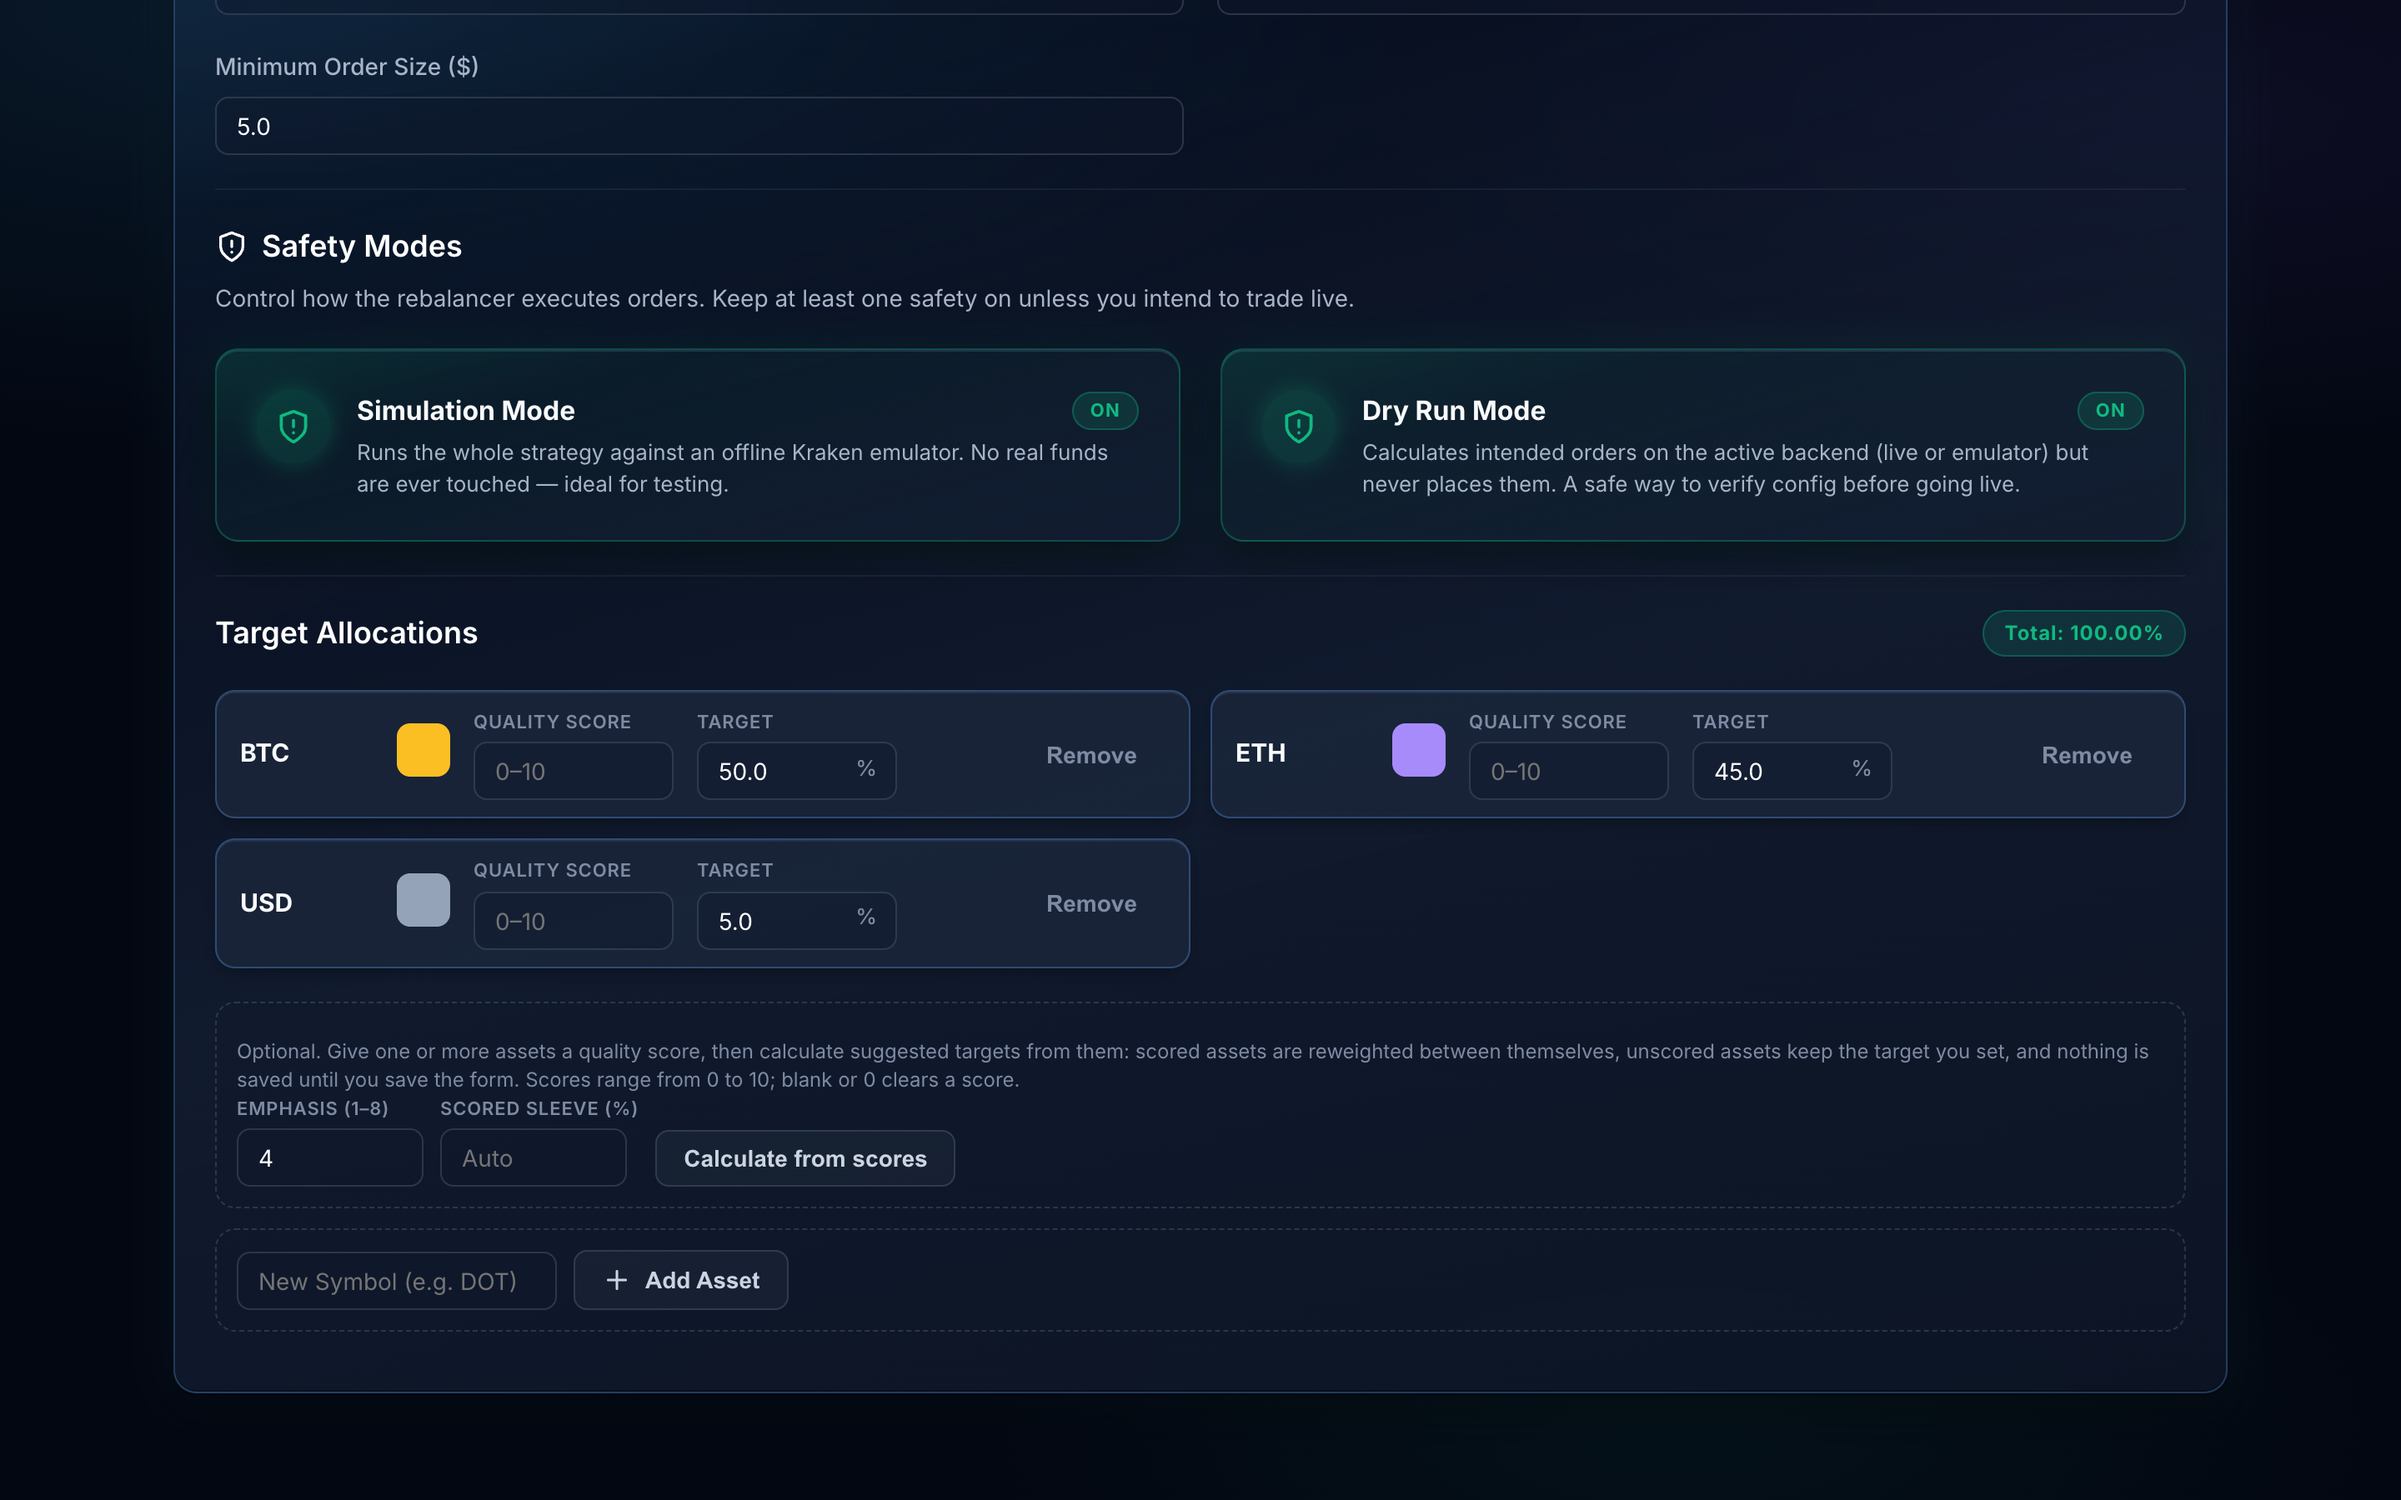
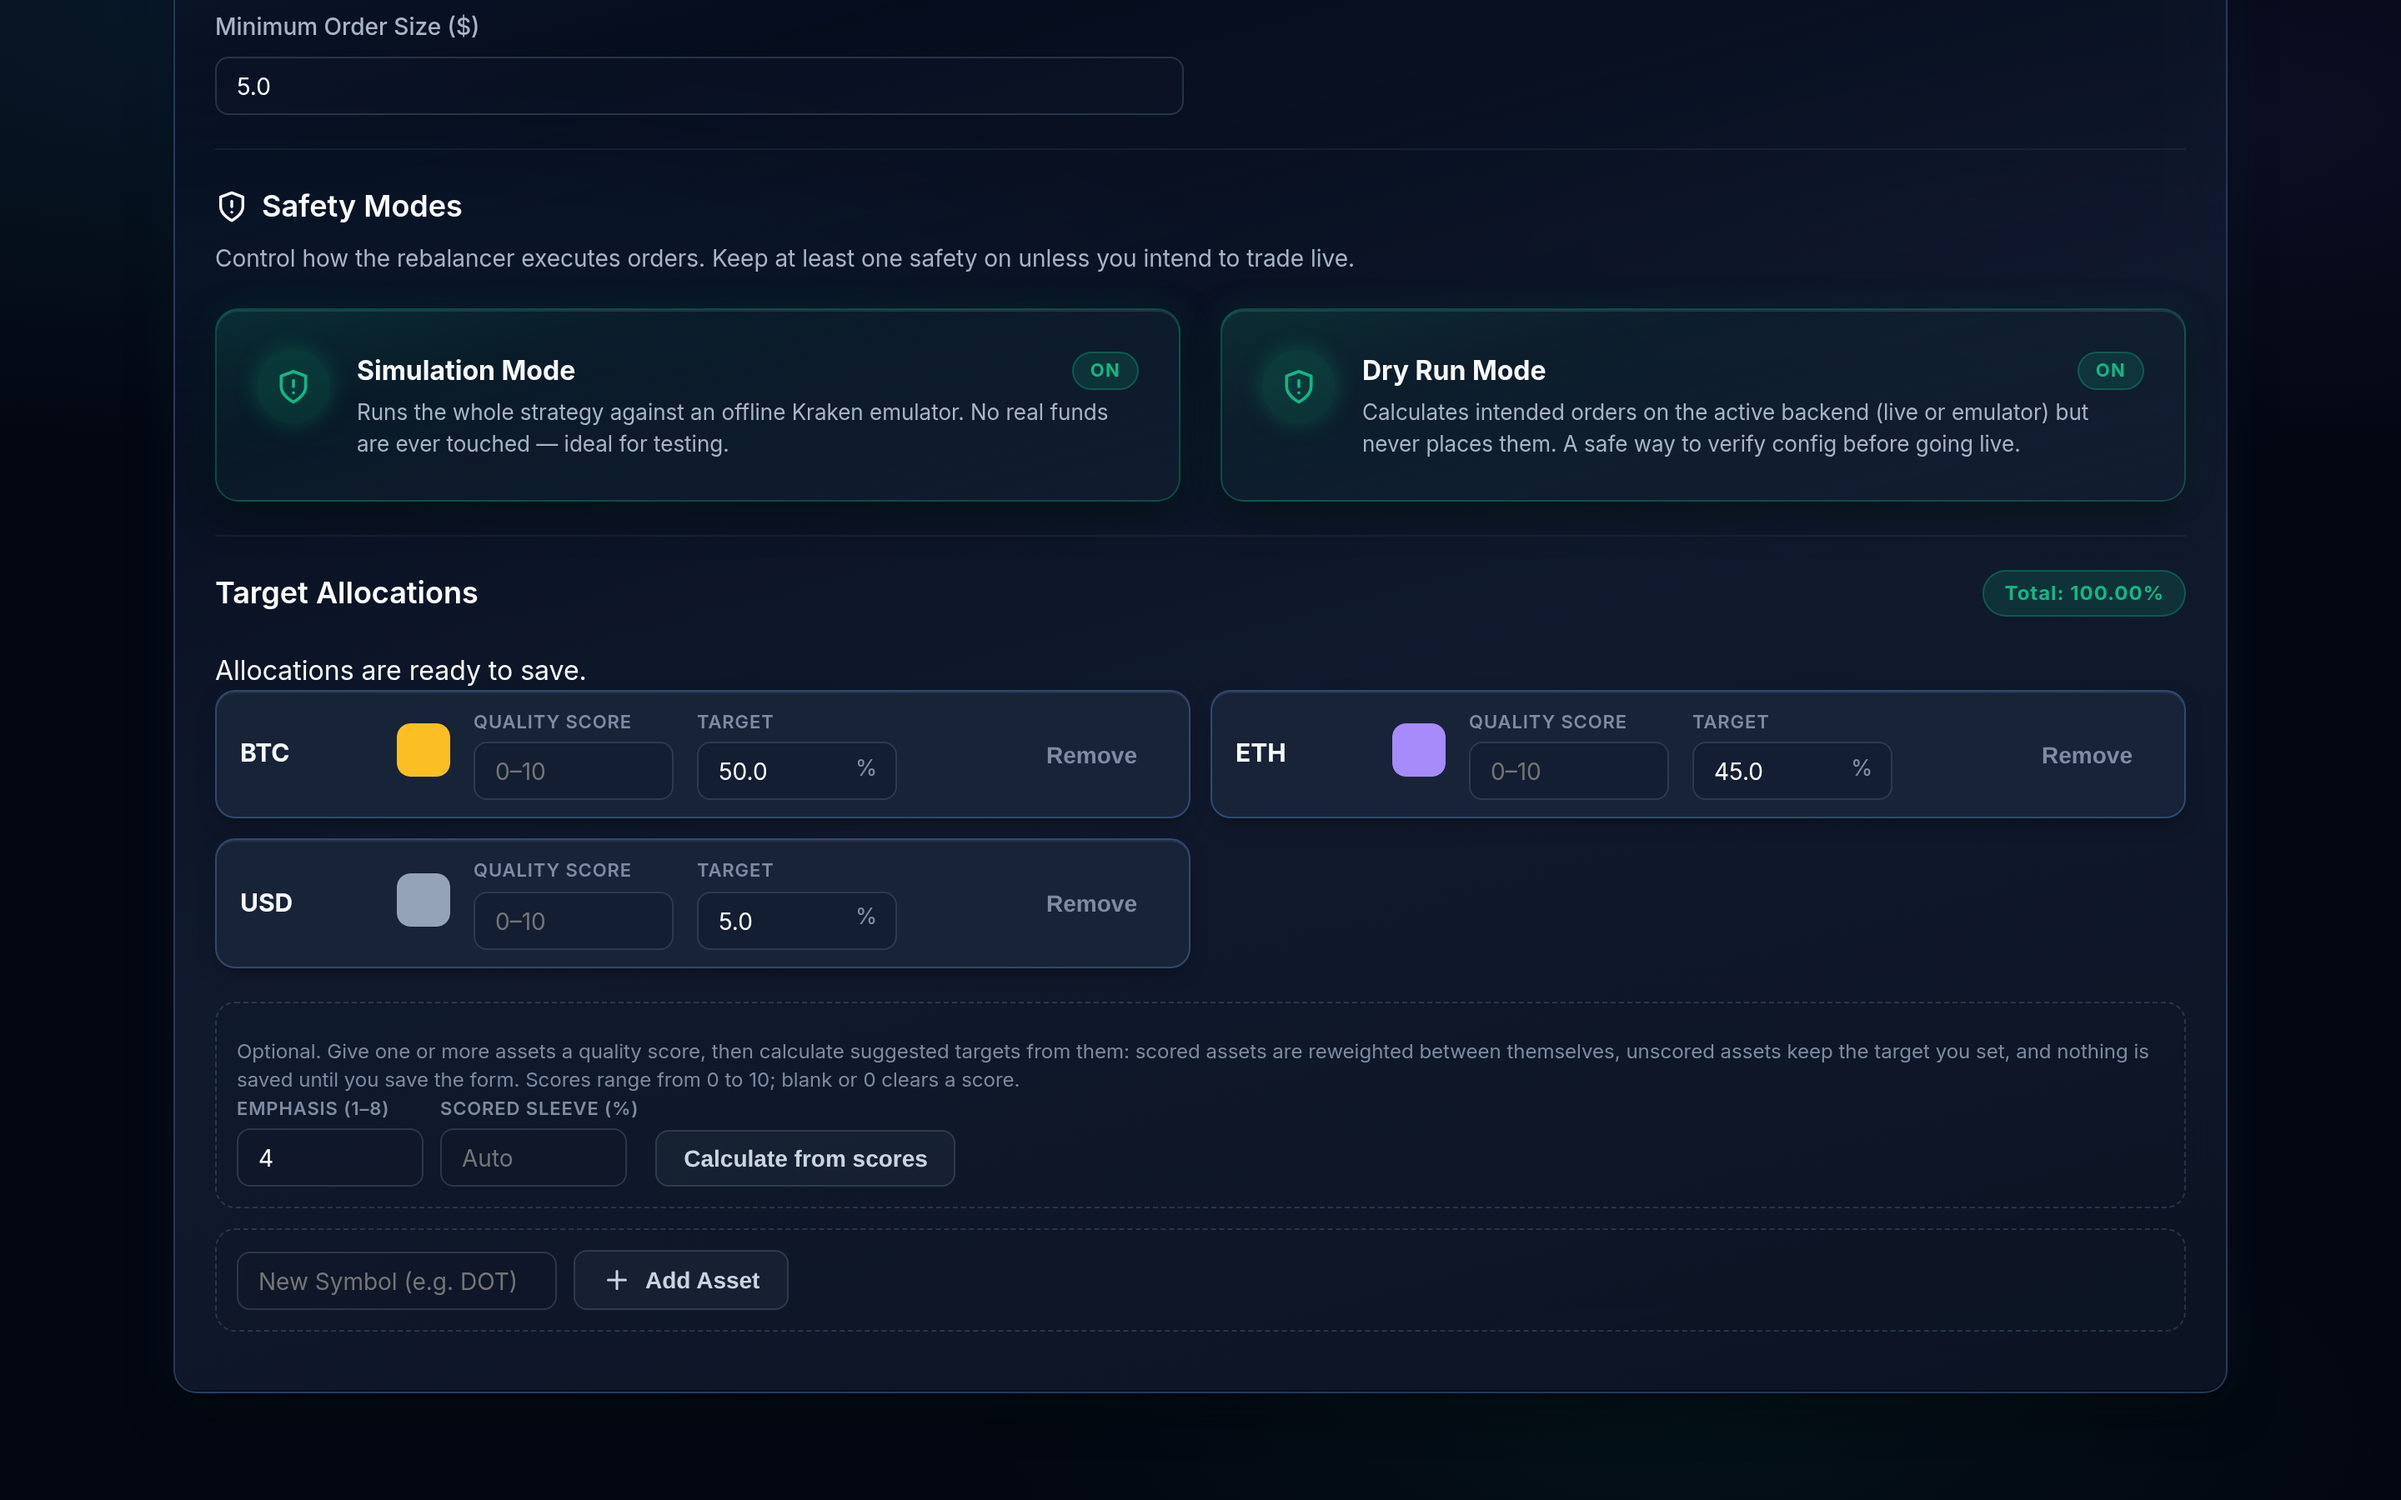
feat: explain why allocation settings cannot be saved (#467)
* Add allocation validation feedback

* docs: show actionable allocation feedback in screenshots

* Categorize activity retention fix

* Preserve activity retention changelog category

diff --git a/frontend-js/src/jsTest/kotlin/SettingsTest.kt b/frontend-js/src/jsTest/kotlin/SettingsTest.kt
@@ -375,14 +375,22 @@ class SettingsTest : StringSpec() {
             try {
                 updateAllocationTotal()
                 totalDisplay.textContent shouldBe "Total: 100.00%"
+                container.querySelector("#allocation-feedback")!!.textContent shouldBe "Allocations are ready to save."
                 saveButton.disabled.shouldBeFalse()
                 totalDisplay.classList.contains("allocation-total-ok").shouldBeTrue()
 
                 input2.value = "60.0"
                 updateAllocationTotal()
                 totalDisplay.textContent shouldBe "Total: 90.00%"
+                container.querySelector("#allocation-feedback")!!.textContent shouldBe
+                    "Add 10.00 percentage points to reach 100%."
                 saveButton.disabled.shouldBeTrue()
                 totalDisplay.classList.contains("allocation-total-bad").shouldBeTrue()
+
+                input2.value = "80.0"
+                updateAllocationTotal()
+                container.querySelector("#allocation-feedback")!!.textContent shouldBe
+                    "Remove 10.00 percentage points to reach 100%."
 
                 input2.value = "70.0"
                 sym2.value = Asset.ETH
@@ -390,6 +398,27 @@ class SettingsTest : StringSpec() {
                 saveButton.disabled.shouldBeTrue()
                 totalDisplay.classList.contains("allocation-total-bad").shouldBeTrue()
                 totalDisplay.textContent shouldBe "Total: 100.00%"
+                container.querySelector("#allocation-feedback")!!.textContent shouldBe "Add a USD allocation."
+
+                input2.value = ""
+                updateAllocationTotal()
+                totalDisplay.textContent shouldBe "Total: --%"
+                container.querySelector("#allocation-feedback")!!.textContent shouldBe
+                    "Enter a valid percentage for each allocation. Add a USD allocation."
+                saveButton.disabled.shouldBeTrue()
+            } finally {
+                document.body!!.removeChild(container)
+            }
+        }
+
+        "updateAllocationTotal rejects out-of-range targets even when they sum to 100" {
+            val (container, totalDisplay, saveButton) = allocationTotalFixture("110", "-10")
+            try {
+                updateAllocationTotal()
+                totalDisplay.textContent shouldBe "Total: 100.00%"
+                container.querySelector("#allocation-feedback")!!.textContent shouldBe
+                    "Enter a valid percentage for each allocation."
+                saveButton.disabled.shouldBeTrue()
             } finally {
                 document.body!!.removeChild(container)
             }
@@ -403,6 +432,7 @@ class SettingsTest : StringSpec() {
                 updateAllocationTotal()
                 totalDisplay.classList.contains("allocation-total-ok").shouldBeTrue()
                 saveButton.disabled.shouldBeFalse()
+                container.querySelector("#allocation-feedback")!!.textContent shouldBe "Allocations are ready to save."
 
                 secondTarget.value = "50.005"
                 updateAllocationTotal()
@@ -650,6 +680,7 @@ private fun allocationTotalFixture(first: String, second: String): AllocationTot
     val container = document.createElement("div")
     container.innerHTML = """
         <span id="total-allocated-display"></span>
+        <span id="allocation-feedback"></span>
         <button id="save-button"></button>
         <input name="targets" value="$first">
         <input name="symbols" value="BTC">

diff --git a/frontend-js/src/jsMain/kotlin/Settings.kt b/frontend-js/src/jsMain/kotlin/Settings.kt
@@ -106,20 +106,42 @@ private fun settingsModeLabel(form: HTMLFormElement): String {
 fun updateAllocationTotal() {
     val inputs = document.querySelectorAll(TARGET_INPUTS_QUERY)
     var total = 0.0
+    var hasInvalidTarget = false
+    var hasUnparseableTarget = false
     inputs.forEachInput { input ->
-        total += input.value.toDoubleOrNull() ?: 0.0
+        val target = input.value.toDoubleOrNull()
+        if (target == null || !target.isFinite()) {
+            hasInvalidTarget = true
+            hasUnparseableTarget = true
+        } else {
+            total += target
+            if (target < 0.0 || target > PrecisionConstants.TOTAL_ALLOCATION_PERCENTAGE) hasInvalidTarget = true
+        }
     }
 
     val totalDisplay = document.getElementById(HtmlIds.TOTAL_ALLOCATED_DISPLAY) ?: return
-    totalDisplay.textContent = "${ViewText.TOTAL_PREFIX}${total.toFixed(PrecisionConstants.SCALE_USD)}%"
+    val displayedTotal = if (hasUnparseableTarget) "--" else total.toFixed(PrecisionConstants.SCALE_USD)
+    totalDisplay.textContent = "${ViewText.TOTAL_PREFIX}$displayedTotal%"
 
     val saveButton = document.getElementById(HtmlIds.SAVE_BUTTON) as? HTMLButtonElement ?: return
-    val isValid =
-        abs(total - PrecisionConstants.TOTAL_ALLOCATION_PERCENTAGE) <= PrecisionConstants.ALLOCATION_TOLERANCE_DELTA
-
+    val difference = PrecisionConstants.TOTAL_ALLOCATION_PERCENTAGE - total
+    val isValid = !hasInvalidTarget && abs(difference) <= PrecisionConstants.ALLOCATION_TOLERANCE_DELTA
     val hasUsd = currentAllocationSymbols().contains(Asset.USD)
-
     val isSuccess = isValid && hasUsd
+    val feedback = mutableListOf<String>()
+    when {
+        hasInvalidTarget -> feedback.add(ViewText.ALLOCATION_ENTER_VALID)
+
+        !isValid -> {
+            val action = if (difference > 0) ViewText.ALLOCATION_ADD_PREFIX else ViewText.ALLOCATION_REMOVE_PREFIX
+            feedback.add(
+                action + abs(difference).toFixed(PrecisionConstants.SCALE_USD) + ViewText.ALLOCATION_POINTS_SUFFIX,
+            )
+        }
+    }
+    if (!hasUsd) feedback.add(ViewText.ALLOCATION_USD_REQUIRED)
+    if (isSuccess) feedback.add(ViewText.ALLOCATION_READY)
+    document.getElementById(HtmlIds.ALLOCATION_FEEDBACK)?.textContent = feedback.joinToString(" ")
     totalDisplay.classList.toggle(CssClass.Form.AllocationTotalOk, isSuccess)
     totalDisplay.classList.toggle(CssClass.Form.AllocationTotalBad, !isSuccess)
     saveButton.disabled = !isSuccess

diff --git a/backend/src/main/kotlin/com/gemini/krakenbot/view/component/SettingsFormComponent.kt b/backend/src/main/kotlin/com/gemini/krakenbot/view/component/SettingsFormComponent.kt
@@ -268,6 +268,10 @@ class SettingsFormComponent {
                 }
             }
 
+            div {
+                id = HtmlIds.ALLOCATION_FEEDBACK
+            }
+
             div(CssClass.Form.AllocationListContainer) {
                 id = HtmlIds.ALLOCATIONS_CONTAINER
                 val allocations = formValues?.allocations ?: config.allocations.map { alloc ->

diff --git a/backend/src/test/kotlin/com/gemini/krakenbot/view/component/SettingsFormComponentTest.kt b/backend/src/test/kotlin/com/gemini/krakenbot/view/component/SettingsFormComponentTest.kt
@@ -29,6 +29,7 @@ class SettingsFormComponentTest : StringSpec() {
                 SettingsFormComponent().renderForm(this, config, null, "csrf-token")
             }
 
+            html shouldContain "id=\"allocation-feedback\""
             html shouldContain "Simulation Mode"
             html shouldContain "Dry Run Mode"
             html shouldContain "value=\"50.0\""

diff --git a/README.md b/README.md
@@ -277,7 +277,7 @@ Earlier Phase 5 updates integrated a reactive configuration loop (`watchConfigCh
 
 - Modify all settings (allocations, thresholds, assets) via the web UI
 - Add or remove assets without restarting the application
-- Allocation validation ensures targets always sum to 100%
+- Allocation feedback shows adjustments needed to reach 100% and identifies missing USD or invalid targets
 - `ConfigService.watchConfigChanges()` exposes a `Flow<Settings>`, which
   `PortfolioManagerImpl` uses to restart its sleeping rebalancing loop with new
   settings without polling. Saves made during an active cycle persist

diff --git a/docs/USER_GUIDE.md b/docs/USER_GUIDE.md
@@ -235,6 +235,10 @@ preserve the entered values so you can correct the form without re-entering it.
 
 ### Target allocations
 
+The total shows how many percentage points to add or remove when allocations
+are outside the save tolerance. A message also identifies a missing USD
+allocation or an invalid percentage.
+
 <a href="images/settings-allocations.png"><img src="images/settings-allocations.png" alt="Target allocations and quality-score preview controls" width="960"></a>
 *Settings — target allocations and optional quality-score preview.*
 

diff --git a/CHANGELOG.md b/CHANGELOG.md
@@ -8,6 +8,10 @@ to [Semantic Versioning](https://semver.org/spec/v2.0.0.html).
 
 ## [6.21.0] - 2026-11-10
 
+### Added
+
+- Explain allocation corrections needed before Settings can be saved.
+
 ### Changed
 
 - Retain recent order and problem cycles separately from routine activity in the Dashboard's in-memory history.
